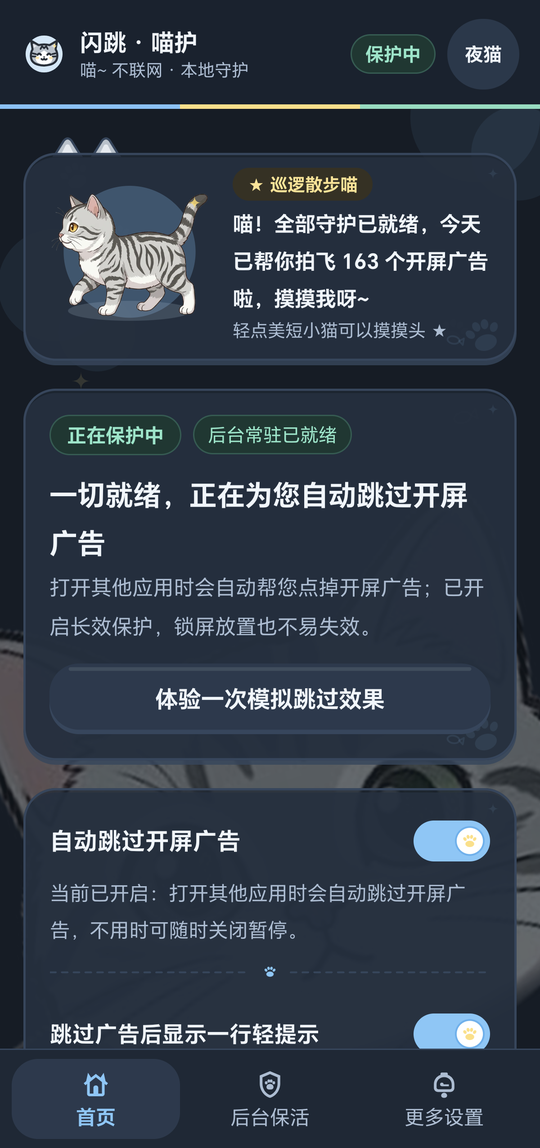
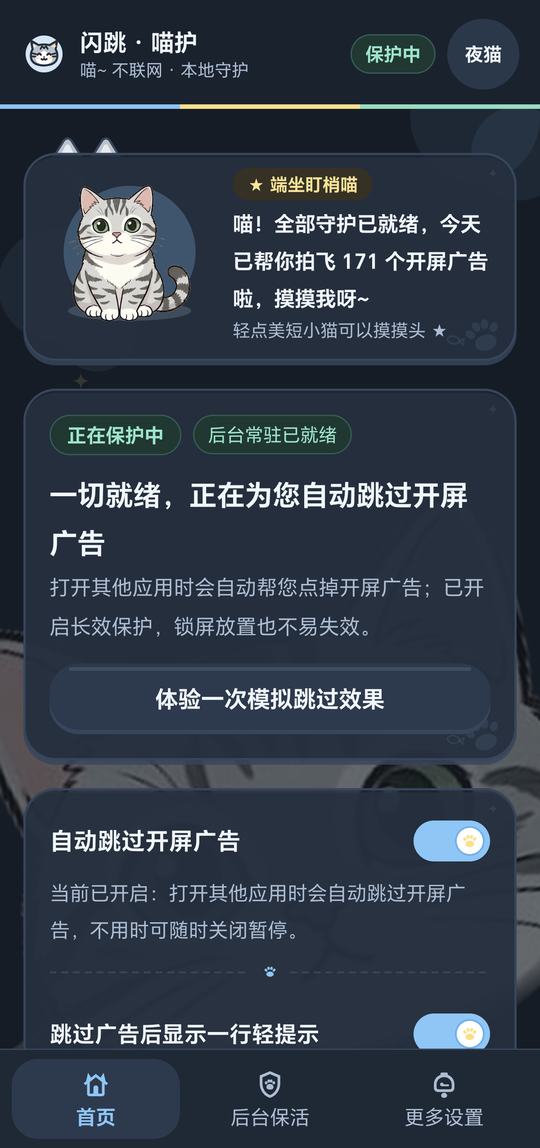
fix: remove stray star on cat tail, fix animation/pet-toast state bugs, bump v1.0.1

diff --git a/app/src/main/java/com/flashskip/ui/MeowDecorViews.kt b/app/src/main/java/com/flashskip/ui/MeowDecorViews.kt
@@ -1,5 +1,7 @@
 package com.flashskip.ui
 
+import android.animation.Animator
+import android.animation.AnimatorListenerAdapter
 import android.animation.ValueAnimator
 import android.content.Context
 import android.graphics.Canvas
@@ -395,6 +397,7 @@ class MeowCatMascotView @JvmOverloads constructor(
 
     private var idleAnimator: ValueAnimator? = null
     private var petAnimator: ValueAnimator? = null
+    private val clearPetRunnable = Runnable { resetPetAnimation() }
     private val drawableCache = mutableMapOf<ConsoleFormatter.MeowCatPose, Drawable?>()
 
     private val fillPaint = Paint(Paint.ANTI_ALIAS_FLAG).apply { style = Paint.Style.FILL }
@@ -406,9 +409,22 @@ class MeowCatMascotView @JvmOverloads constructor(
         contentDescription = "美短猫咪守护伙伴，轻点可以摸摸头"
     }
 
+    private fun resetPetAnimation() {
+        removeCallbacks(clearPetRunnable)
+        val anim = petAnimator
+        petAnimator = null
+        anim?.cancel()
+        if (isPetted || petProgress != 0f) {
+            isPetted = false
+            petProgress = 0f
+            invalidate()
+        }
+    }
+
     fun setPose(newPose: ConsoleFormatter.MeowCatPose) {
         if (currentPose == newPose) return
         currentPose = newPose
+        resetPetAnimation()
         syncIdleAnimator()
         invalidate()
     }
@@ -422,27 +438,44 @@ class MeowCatMascotView @JvmOverloads constructor(
     }
 
     fun triggerPetLove() {
+        removeCallbacks(clearPetRunnable)
+        val prevAnim = petAnimator
+        petAnimator = null
+        prevAnim?.cancel()
+
         isPetted = true
         if (!ValueAnimator.areAnimatorsEnabled()) {
-            petProgress = 0.5f
+            petProgress = 0.35f
             invalidate()
-            postDelayed({
-                isPetted = false
-                petProgress = 0f
-                invalidate()
-            }, 1400L)
+            postDelayed(clearPetRunnable, 1200L)
             return
         }
-        petAnimator?.cancel()
+        petProgress = 0f
         petAnimator = ValueAnimator.ofFloat(0f, 1f).apply {
-            duration = 1600L
+            duration = 1200L
             addUpdateListener { anim ->
                 petProgress = anim.animatedValue as Float
-                if (petProgress >= 1f) {
-                    isPetted = false
-                }
                 invalidate()
             }
+            addListener(object : AnimatorListenerAdapter() {
+                override fun onAnimationEnd(animation: Animator) {
+                    if (petAnimator === animation) {
+                        petAnimator = null
+                        isPetted = false
+                        petProgress = 0f
+                        invalidate()
+                    }
+                }
+
+                override fun onAnimationCancel(animation: Animator) {
+                    if (petAnimator === animation) {
+                        petAnimator = null
+                        isPetted = false
+                        petProgress = 0f
+                        invalidate()
+                    }
+                }
+            })
             start()
         }
     }
@@ -467,16 +500,29 @@ class MeowCatMascotView @JvmOverloads constructor(
     override fun onDetachedFromWindow() {
         idleAnimator?.cancel()
         idleAnimator = null
-        petAnimator?.cancel()
-        petAnimator = null
+        resetPetAnimation()
         super.onDetachedFromWindow()
     }
 
     override fun onWindowVisibilityChanged(visibility: Int) {
         super.onWindowVisibilityChanged(visibility)
-        if (visibility == VISIBLE) syncIdleAnimator() else {
+        if (visibility == VISIBLE) {
+            syncIdleAnimator()
+        } else {
             idleAnimator?.cancel()
             idleAnimator = null
+            resetPetAnimation()
+        }
+    }
+
+    override fun onVisibilityChanged(changedView: View, visibility: Int) {
+        super.onVisibilityChanged(changedView, visibility)
+        if (isShown) {
+            syncIdleAnimator()
+        } else {
+            idleAnimator?.cancel()
+            idleAnimator = null
+            resetPetAnimation()
         }
     }
 
@@ -564,19 +610,16 @@ class MeowCatMascotView @JvmOverloads constructor(
             canvas.restoreToCount(save)
         }
 
-        // 3. Cute floating FX (sparkles on tap-to-pet, or tiny ambient star/flash when awake)
+        // 3. Transient tap-to-pet sparkles near top/head area (none drawn at rest so tail stays unobstructed)
         if (isPetted) {
-            val rise = petProgress * 18f * d
-            val alpha = ((1f - petProgress) * 255).toInt().coerceIn(0, 255)
+            val rise = petProgress * 16f * d
+            val fade = sin(petProgress * PI.toFloat()).coerceIn(0f, 1f)
+            val alpha = (fade * 255).toInt().coerceIn(0, 255)
             fillPaint.color = Color.argb(alpha, 255, 212, 82)
-            MeowBackdropView.drawSparkle(canvas, w * 0.16f, h * 0.24f - rise, 6.2f * d, fillPaint)
-            MeowBackdropView.drawSparkle(canvas, w * 0.84f, h * 0.20f - rise * 1.15f, 5.4f * d, fillPaint)
+            MeowBackdropView.drawSparkle(canvas, w * 0.14f, h * 0.22f - rise, 6.0f * d, fillPaint)
+            MeowBackdropView.drawSparkle(canvas, w * 0.46f, h * 0.12f - rise * 0.9f, 5.2f * d, fillPaint)
             fillPaint.color = Color.argb(alpha, Color.red(p.signal), Color.green(p.signal), Color.blue(p.signal))
-            MeowBackdropView.drawSparkle(canvas, w * 0.50f, h * 0.10f - rise * 0.9f, 5.8f * d, fillPaint)
-        } else if (isAwake) {
-            val dy = sin(idlePhase * 1.4f) * 1.8f * d
-            fillPaint.color = Color.argb(210, 255, 217, 102)
-            MeowBackdropView.drawSparkle(canvas, w * 0.88f, h * 0.16f + dy, 4.6f * d, fillPaint)
+            MeowBackdropView.drawSparkle(canvas, w * 0.26f, h * 0.10f - rise * 1.1f, 5.6f * d, fillPaint)
         }
     }
 }

diff --git a/app/src/main/java/com/flashskip/MainActivity.kt b/app/src/main/java/com/flashskip/MainActivity.kt
@@ -1277,10 +1277,15 @@ class MainActivity : AppCompatActivity() {
         segStyleEndfield.setOnClickListener { applyThemeStyle(FlashTheme.ThemeStyle.ENDFIELD) }
         segStyleMeow.setOnClickListener { applyThemeStyle(FlashTheme.ThemeStyle.MEOW) }
         val onPetCat = View.OnClickListener {
+            val awakeNow = ConsoleFormatter.isCatAwakeReady(
+                PermissionHelper.readStatus(this),
+                statsStore.observeOnly
+            )
+            isCatAwakeNow = awakeNow
             meowCatMascot.performHapticFeedback(HapticFeedbackConstants.KEYBOARD_TAP)
             meowCatMascot.triggerPetLove()
             showToast(
-                if (isCatAwakeNow) "喵呜~ 美短小猫被摸头超开心，继续守护你 ★"
+                if (awakeNow) "喵呜~ 美短小猫被摸头超开心，继续守护你 ★"
                 else "嘘~ 小猫正在呼呼大睡，完成全部设置就能叫醒它哦 zZ"
             )
         }

diff --git a/app/src/main/java/com/flashskip/ui/EfButton.kt b/app/src/main/java/com/flashskip/ui/EfButton.kt
@@ -143,6 +143,30 @@ class EfButton @JvmOverloads constructor(
         invalidate()
     }
 
+    override fun onDetachedFromWindow() {
+        resetPressState()
+        super.onDetachedFromWindow()
+    }
+
+    override fun onWindowVisibilityChanged(visibility: Int) {
+        super.onWindowVisibilityChanged(visibility)
+        if (visibility != VISIBLE) {
+            resetPressState()
+        }
+    }
+
+    private fun resetPressState() {
+        val anim = wipeAnimator
+        wipeAnimator = null
+        anim?.cancel()
+        if (wipeFraction != 0f || wasPressedState) {
+            wipeFraction = 0f
+            wasPressedState = false
+            syncTextColor()
+            invalidate()
+        }
+    }
+
     private fun animatePress(target: Float, durationMs: Long, endfield: Boolean) {
         wipeAnimator?.cancel()
         if (!ValueAnimator.areAnimatorsEnabled()) {

diff --git a/README.md b/README.md
@@ -1,6 +1,6 @@
 # FlashSkip（闪跳）
 
-[![Version](https://img.shields.io/badge/Version-1.0.0-161616.svg)](#)
+[![Version](https://img.shields.io/badge/Version-1.0.1-161616.svg)](#)
 [![Kotlin](https://img.shields.io/badge/Kotlin-2.0.21-7F52FF.svg)](https://kotlinlang.org)
 [![Android](https://img.shields.io/badge/Android-8.0%2B%20(API%2026--34)-3DDC84.svg)](https://developer.android.com)
 [![Network](https://img.shields.io/badge/Network-Zero%20Permission-0A7EA4.svg)](#隐私与安全设计)
